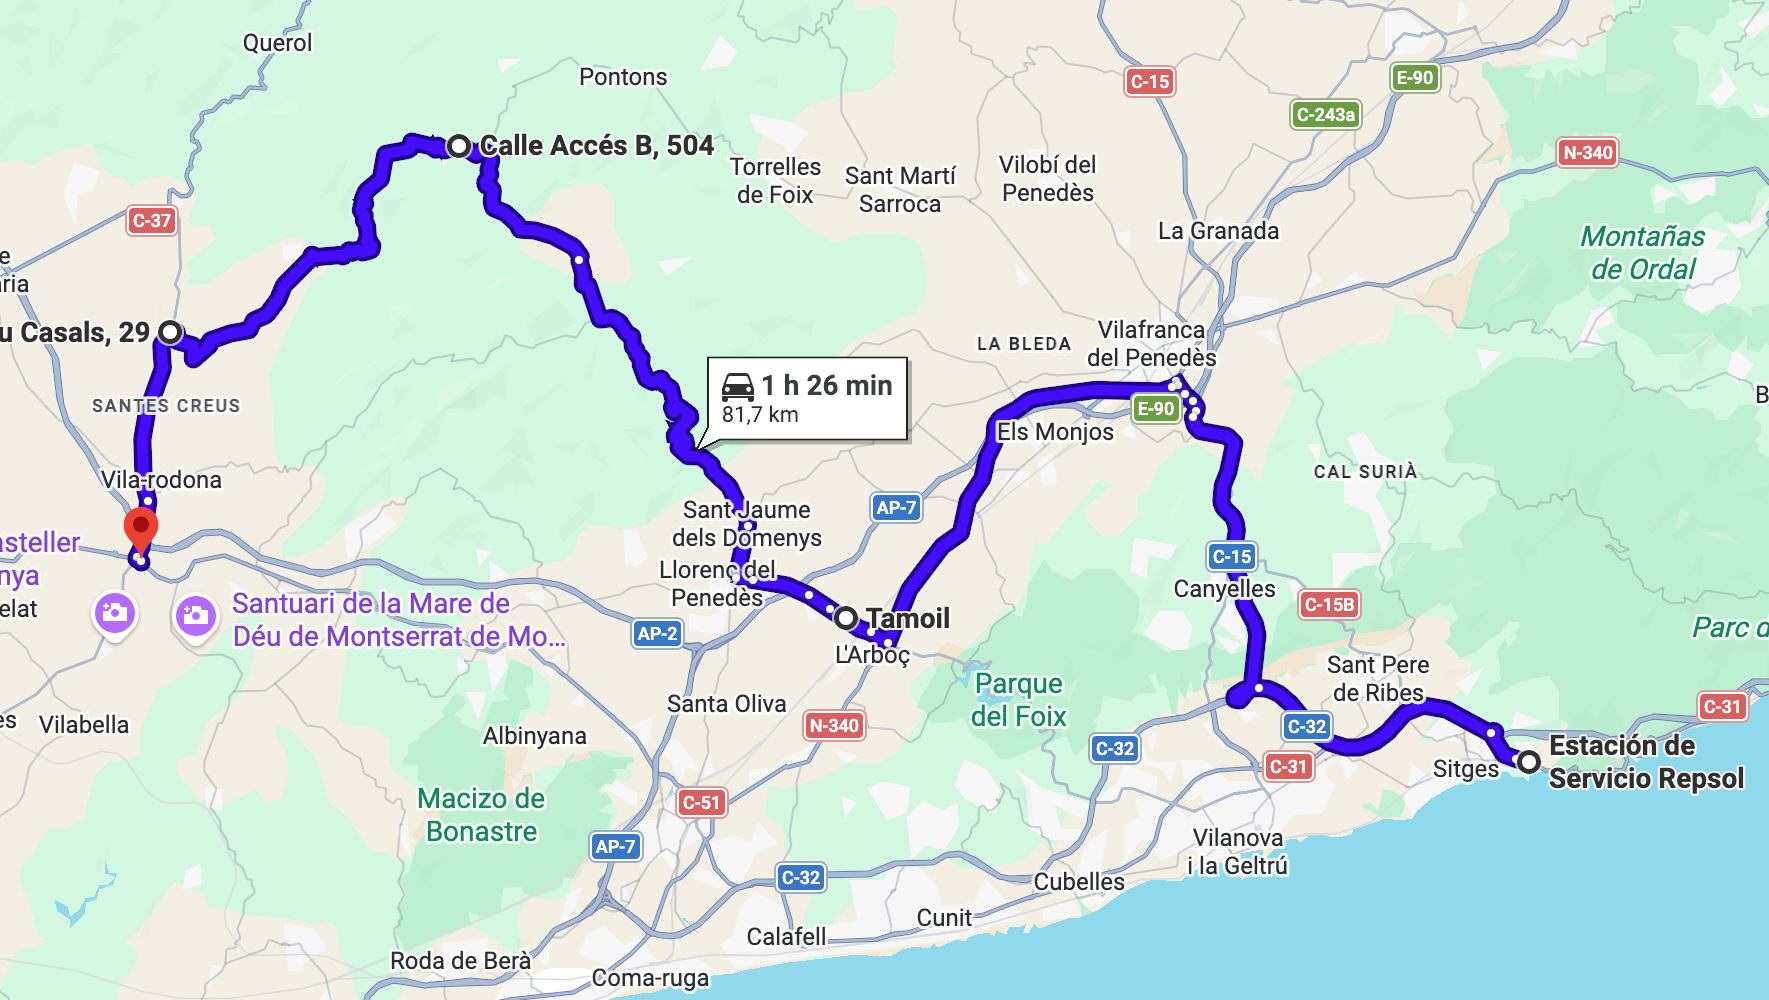
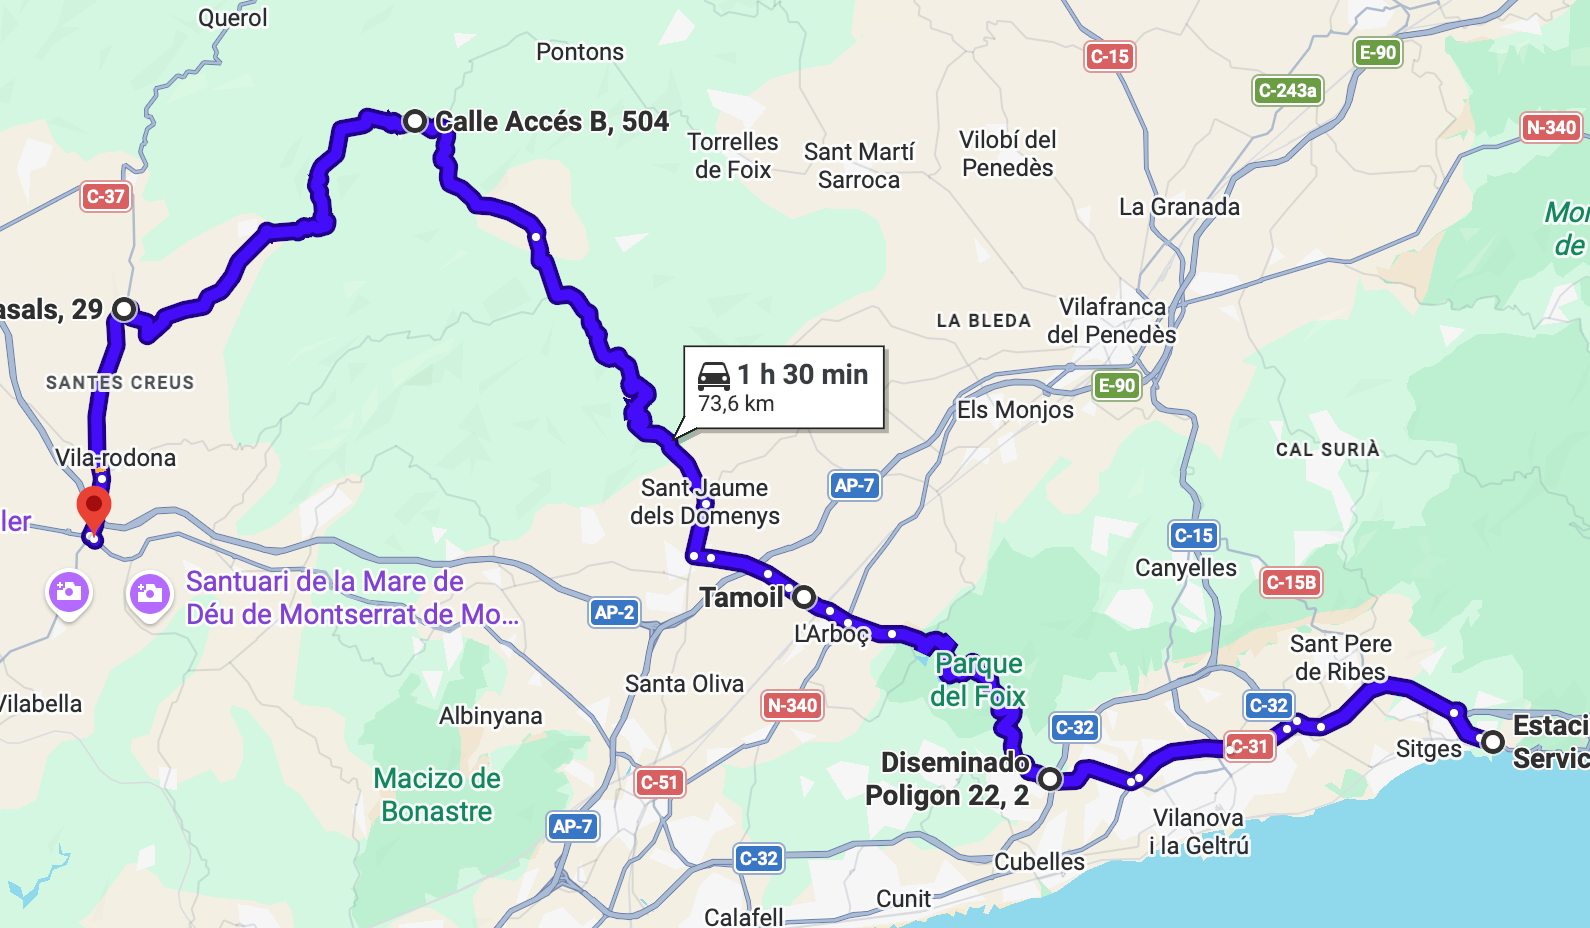
fix prades

diff --git a/src/prades/prades.md b/src/prades/prades.md
@@ -2,32 +2,34 @@
 
 Ruta casi circular por las Muntanyes de Prades, con paradas para reagrupar, gasolina y café. Final opcional en la playa de Salou.
 
-# Parte 1
+Total: 253 km (5h 10min)
+
+### Parte 1
 
 Ruta: 81 km (1h 26min)
-[https://maps.app.goo.gl/zawtbATeC4gLFwC76](https://maps.app.goo.gl/zawtbATeC4gLFwC76)
+[https://maps.app.goo.gl/PpPxiGjFh1AZ1Tid9](https://maps.app.goo.gl/PpPxiGjFh1AZ1Tid9)
 
-- ⛽ Repsol Sitges
+- ⛽ Repsol (Sitges)
 - Pantà del Foix
-- ⛽ Tamoil L'Arboç
+- 🅿 Tamoil (L'Arboç)
 - Valldossera
 - Santes Creus
-- 🍔 Restaurante Les 4 Carreteres
+- 🍔 Restaurante Les 4 Carreteres (Vila-rodona)
 
 Calentando motores por el Pantà del Foix y la zona de Valldossera para ganarnos el desayuno.
 
 <img src='./parte-1.png' width='400'>
 
-# Parte 2
+### Parte 2
 
 Ruta: 172 km (3h 44min)
 [https://maps.app.goo.gl/A6Rt5y9sinyxEuXk8](https://maps.app.goo.gl/A6Rt5y9sinyxEuXk8)
 
-- ⛽ Repsol Les 4 Carreteres
+- ⛽ Repsol (Vila-rodona)
 - Alcover
 - Capafonts
 - Prades
-- ⛽ Repsol Cornudella de Montsant
+- ⛽ Repsol (Cornudella de Montsant)
 - Poboleda
 - La Vilella Baixa
 - ☕ Café Flor de Maig (Gratallops)
